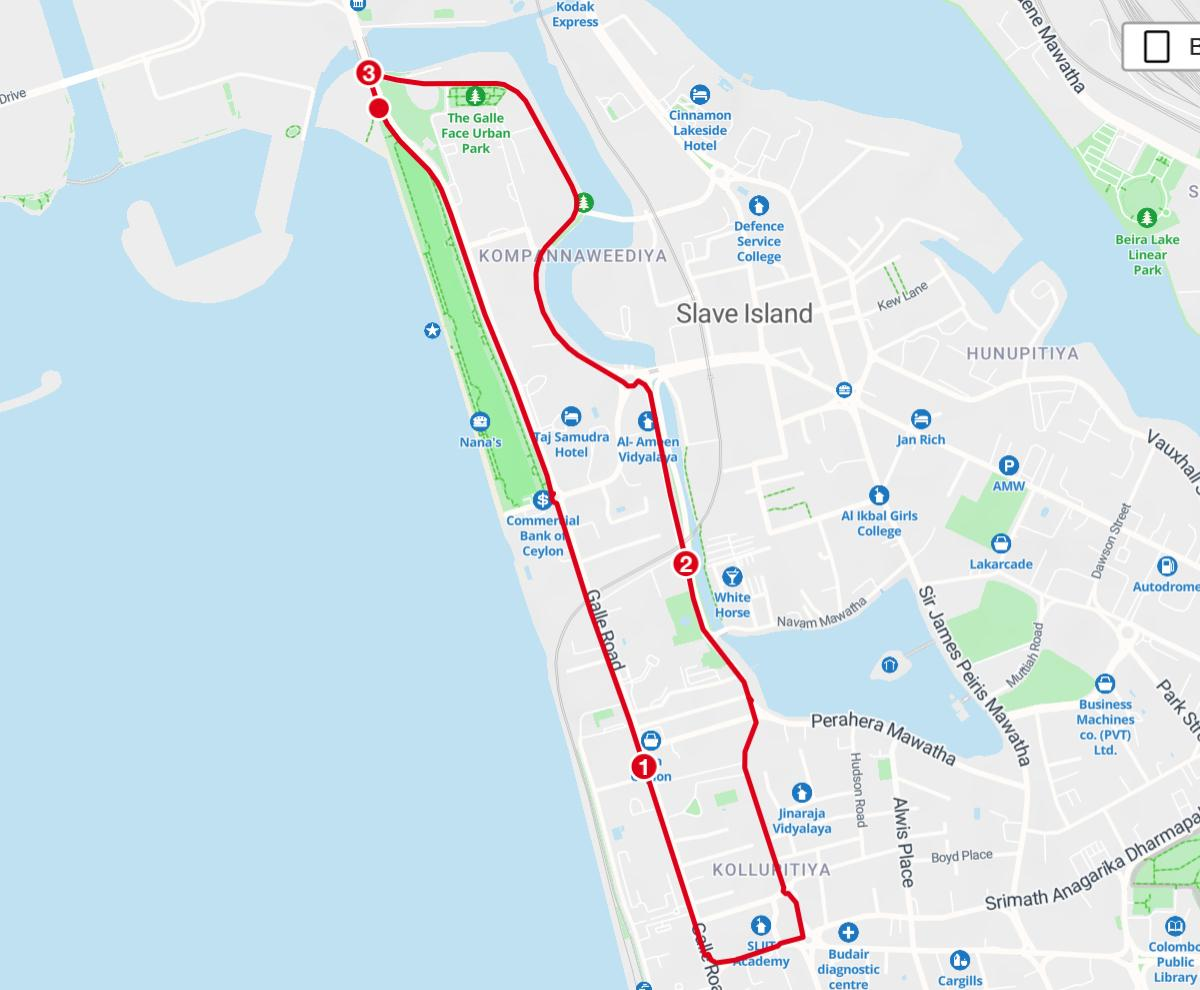
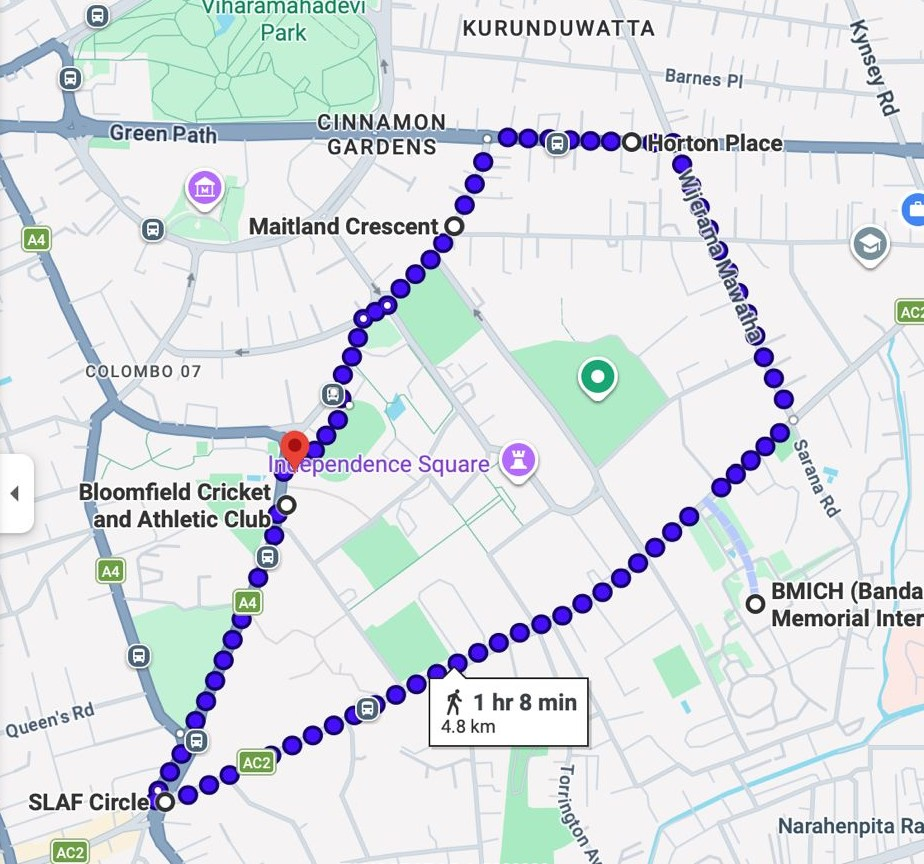
run update

diff --git a/src/pages/Run.jsx b/src/pages/Run.jsx
@@ -4,7 +4,7 @@ import s from './Run.module.css';
 
 /* ── Countdown to July 4 2026 09:00 ─────────────────────── */
 function useRunCountdown() {
-  const target = new Date('2026-07-04T09:00:00');
+  const target = new Date('2026-07-11T16:30:00');
   const calc = () => {
     const diff = Math.max(0, target - new Date());
     return {
@@ -24,67 +24,67 @@ function useRunCountdown() {
 
 const PAD = n => String(n).padStart(2, '0');
 
-/* ── Checkpoints — coordinates from https://maps.app.goo.gl/s4MfGzNUwXJxv3RW9 ── */
+/* ── Checkpoints — Race Course Grounds loop, ~4.8 km ── */
 const CHECKPOINTS = [
   {
     num: 'S',
-    label: 'Start',
-    place: 'Marine Drive, Colombo',
-    street: 'Galle Face · Marine Drive',
-    desc: 'Race begins here at Marine Drive. Collect your bib, warm up and line up at the starting arch!',
+    label: 'Start / Finish',
+    place: 'Race Course Vehicle Park',
+    street: 'Philip Gunawardena Mawatha, Colombo 07',
+    desc: 'Race begins and ends here at Race Course Vehicle Park. Collect your bib, warm up and line up at 4:30 PM!',
     color: '#19486A',
     icon: '🏁',
-    km: '0 km',
-    mapsUrl: 'https://www.google.com/maps/search/?api=1&query=6.9295339,79.8427048',
-    mapsLabel: 'Start — Marine Drive, Colombo',
+    km: '0 / 4.8 km',
+    mapsUrl: 'https://www.google.com/maps/search/?api=1&query=Race+Course+Vehicle+Park,+Philip+Gunawardena+Mawatha,+Colombo',
+    mapsLabel: 'Race Course Vehicle Park, Colombo',
   },
   {
     num: 1,
     label: 'Checkpoint 1',
-    place: 'Galle Road South',
-    street: 'Kollupitiya, Galle Road',
-    desc: 'First water station. Head south along Galle Road — hydrate and keep your pace!',
+    place: 'Bloomfield Cricket & Athletic Club',
+    street: 'Maitland Place, Colombo 07',
+    desc: 'First water station at Bloomfield Cricket and Athletic Club. Hydrate and keep your stride!',
     color: '#E5243B',
     icon: '💧',
-    km: '~2 km',
-    mapsUrl: 'https://www.google.com/maps/search/?api=1&query=6.911725,79.8497629',
-    mapsLabel: 'Checkpoint 1 — Galle Road South',
+    km: '~1 km',
+    mapsUrl: 'https://www.google.com/maps/search/?api=1&query=Bloomfield+Cricket+and+Athletic+Club,+Colombo',
+    mapsLabel: 'Bloomfield Cricket Club, Colombo',
   },
   {
     num: 2,
     label: 'Checkpoint 2',
-    place: 'Galle Road Mid',
-    street: 'Galle Road, Colombo 03',
-    desc: 'Midway checkpoint on the return leg. Electrolytes, SDG fact board and a cheer squad waiting!',
+    place: 'SLAF Circle',
+    street: 'SLAF Cir, Colombo 00500',
+    desc: 'Midway energy station at SLAF Circle. Electrolytes and an SDG fact board — you\'re halfway there!',
     color: '#FCC30B',
     icon: '⚡',
-    km: '~4 km',
-    mapsUrl: 'https://www.google.com/maps/search/?api=1&query=6.9185754,79.8493959',
-    mapsLabel: 'Checkpoint 2 — Galle Road Mid',
+    km: '~1.8 km',
+    mapsUrl: 'https://www.google.com/maps/search/?api=1&query=SLAF+Circle,+Colombo',
+    mapsLabel: 'SLAF Circle, Colombo',
   },
   {
     num: 3,
     label: 'Checkpoint 3',
-    place: 'Near Galle Face',
-    street: 'Galle Face approach, Colombo 03',
-    desc: 'Final push! You can see the finish from here — sprint to the Galle Face finish line!',
-    color: '#4C9F38',
+    place: 'BMICH',
+    street: 'Bandaranaike Memorial International Conference Hall, Colombo 07',
+    desc: 'Energy boost at BMICH. Turn north towards Horton Place — the finish is close!',
+    color: '#FD6925',
     icon: '🏃',
-    km: '~5.5 km',
-    mapsUrl: 'https://www.google.com/maps/search/?api=1&query=6.926469,79.8465784',
-    mapsLabel: 'Checkpoint 3 — Near Galle Face',
+    km: '~2.8 km',
+    mapsUrl: 'https://www.google.com/maps/search/?api=1&query=BMICH,+Colombo',
+    mapsLabel: 'BMICH, Colombo 07',
   },
   {
-    num: 'F',
-    label: 'Finish Line',
-    place: 'Ministry of Defence, Colombo',
-    street: 'Galle Road, Colombo 03',
-    desc: 'Cross the finish line! Medals, photos and the closing celebration await all finishers.',
-    color: '#DD1367',
-    icon: '🏆',
-    km: '~7 km',
-    mapsUrl: 'https://www.google.com/maps/search/?api=1&query=6.9296939,79.842734',
-    mapsLabel: 'Finish — Ministry of Defence, Colombo',
+    num: 4,
+    label: 'Checkpoint 4',
+    place: 'Horton Place',
+    street: 'Horton Pl, Colombo 00700',
+    desc: 'Final stretch! Head along Maitland Crescent back to the Race Course finish line. Sprint it out!',
+    color: '#4C9F38',
+    icon: '💪',
+    km: '~3.8 km',
+    mapsUrl: 'https://www.google.com/maps/search/?api=1&query=Horton+Place,+Colombo+7',
+    mapsLabel: 'Horton Place, Colombo 07',
   },
 ];
 
@@ -196,25 +196,25 @@ export default function Run({ onBack }) {
           </h1>
 
           <p className={s.heroSub}>
-            Run for the Global Goals · Kollupitiya → Galle Face, Colombo
+            Run for the Global Goals · Race Course Grounds, Colombo 07
           </p>
 
           <div className={s.heroCols}>
             <div className={s.heroStat}>
               <span className={s.heroStatIcon}>📅</span>
-              <span className={s.heroStatVal}>July 4, 2026</span>
-              <span className={s.heroStatLabel}>Race Day</span>
+              <span className={s.heroStatVal}>July 11, 2026</span>
+              <span className={s.heroStatLabel}>Race Day · 4:30 PM</span>
             </div>
             <div className={s.heroStatDivider} />
             <div className={s.heroStat}>
               <span className={s.heroStatIcon}>📍</span>
-              <span className={s.heroStatVal}>Galle Face Green</span>
-              <span className={s.heroStatLabel}>Start &amp; Finish Point</span>
+              <span className={s.heroStatVal}>Race Course Grounds</span>
+              <span className={s.heroStatLabel}>Start &amp; Finish · Colombo 07</span>
             </div>
             <div className={s.heroStatDivider} />
             <div className={s.heroStat}>
               <span className={s.heroStatIcon}>🎯</span>
-              <span className={s.heroStatVal}>7 km Loop</span>
+              <span className={s.heroStatVal}>4.8 km Loop</span>
               <span className={s.heroStatLabel}>4 Checkpoints</span>
             </div>
           </div>
@@ -237,7 +237,7 @@ export default function Run({ onBack }) {
                 </div>
               ))}
             </div>
-            <div className={s.cdDate}>Saturday, 4 July 2026 · 09:00 AM</div>
+            <div className={s.cdDate}>Saturday, 11 July 2026 · 4:30 PM</div>
           </div>
 
           <div className={s.heroCtas}>
@@ -256,8 +256,8 @@ export default function Run({ onBack }) {
         <div className={s.mapInner}>
           <div className={s.sectionHead}>
             <span className={s.eyebrow}>📍 Race Route</span>
-            <h2>Galle Face Loop — 7 km</h2>
-            <p>Start at Galle Face Green, run south along Galle Road, turn at Kollupitiya (SLIIT), return north on Sri Uttarananda Mawatha &amp; New Baladaksha Mawatha back to Galle Face. <strong>Click any checkpoint to open in Google Maps.</strong></p>
+            <h2>Race Course Loop — 4.8 km</h2>
+            <p>Start and finish at Race Course Vehicle Park. The loop takes you past Bloomfield, SLAF Circle, BMICH and Horton Place through the heart of Colombo 07. <strong>Click any checkpoint to open in Google Maps.</strong></p>
           </div>
 
           <div className={s.mapLayout}>
@@ -333,11 +333,11 @@ export default function Run({ onBack }) {
 
           <div className={s.detailGrid}>
             {[
-              { icon:'🗓️', label:'Date',       val:'Saturday, 4 July 2026' },
-              { icon:'⏰', label:'Start Time',  val:'9:00 AM sharp' },
-              { icon:'📍', label:'Start & Finish', val:'Galle Face Green' },
-              { icon:'🔄', label:'Turnaround',  val:'SLIIT, Kollupitiya' },
-              { icon:'📏', label:'Distance',    val:'7 km loop · 4 checkpoints' },
+              { icon:'🗓️', label:'Date',       val:'Saturday, 11 July 2026' },
+              { icon:'⏰', label:'Start Time',  val:'4:30 PM sharp' },
+              { icon:'📍', label:'Start & Finish', val:'Race Course Grounds' },
+              { icon:'🔄', label:'Route',         val:'Bloomfield · SLAF · BMICH · Horton Pl' },
+              { icon:'📏', label:'Distance',      val:'4.8 km loop · 4 checkpoints' },
               { icon:'👟', label:'Category',    val:'Open to all ages' },
               { icon:'🎽', label:'Race Kit',    val:'Bib + SDG wristband' },
               { icon:'🏅', label:'Finisher',    val:'Medal for all finishers' },